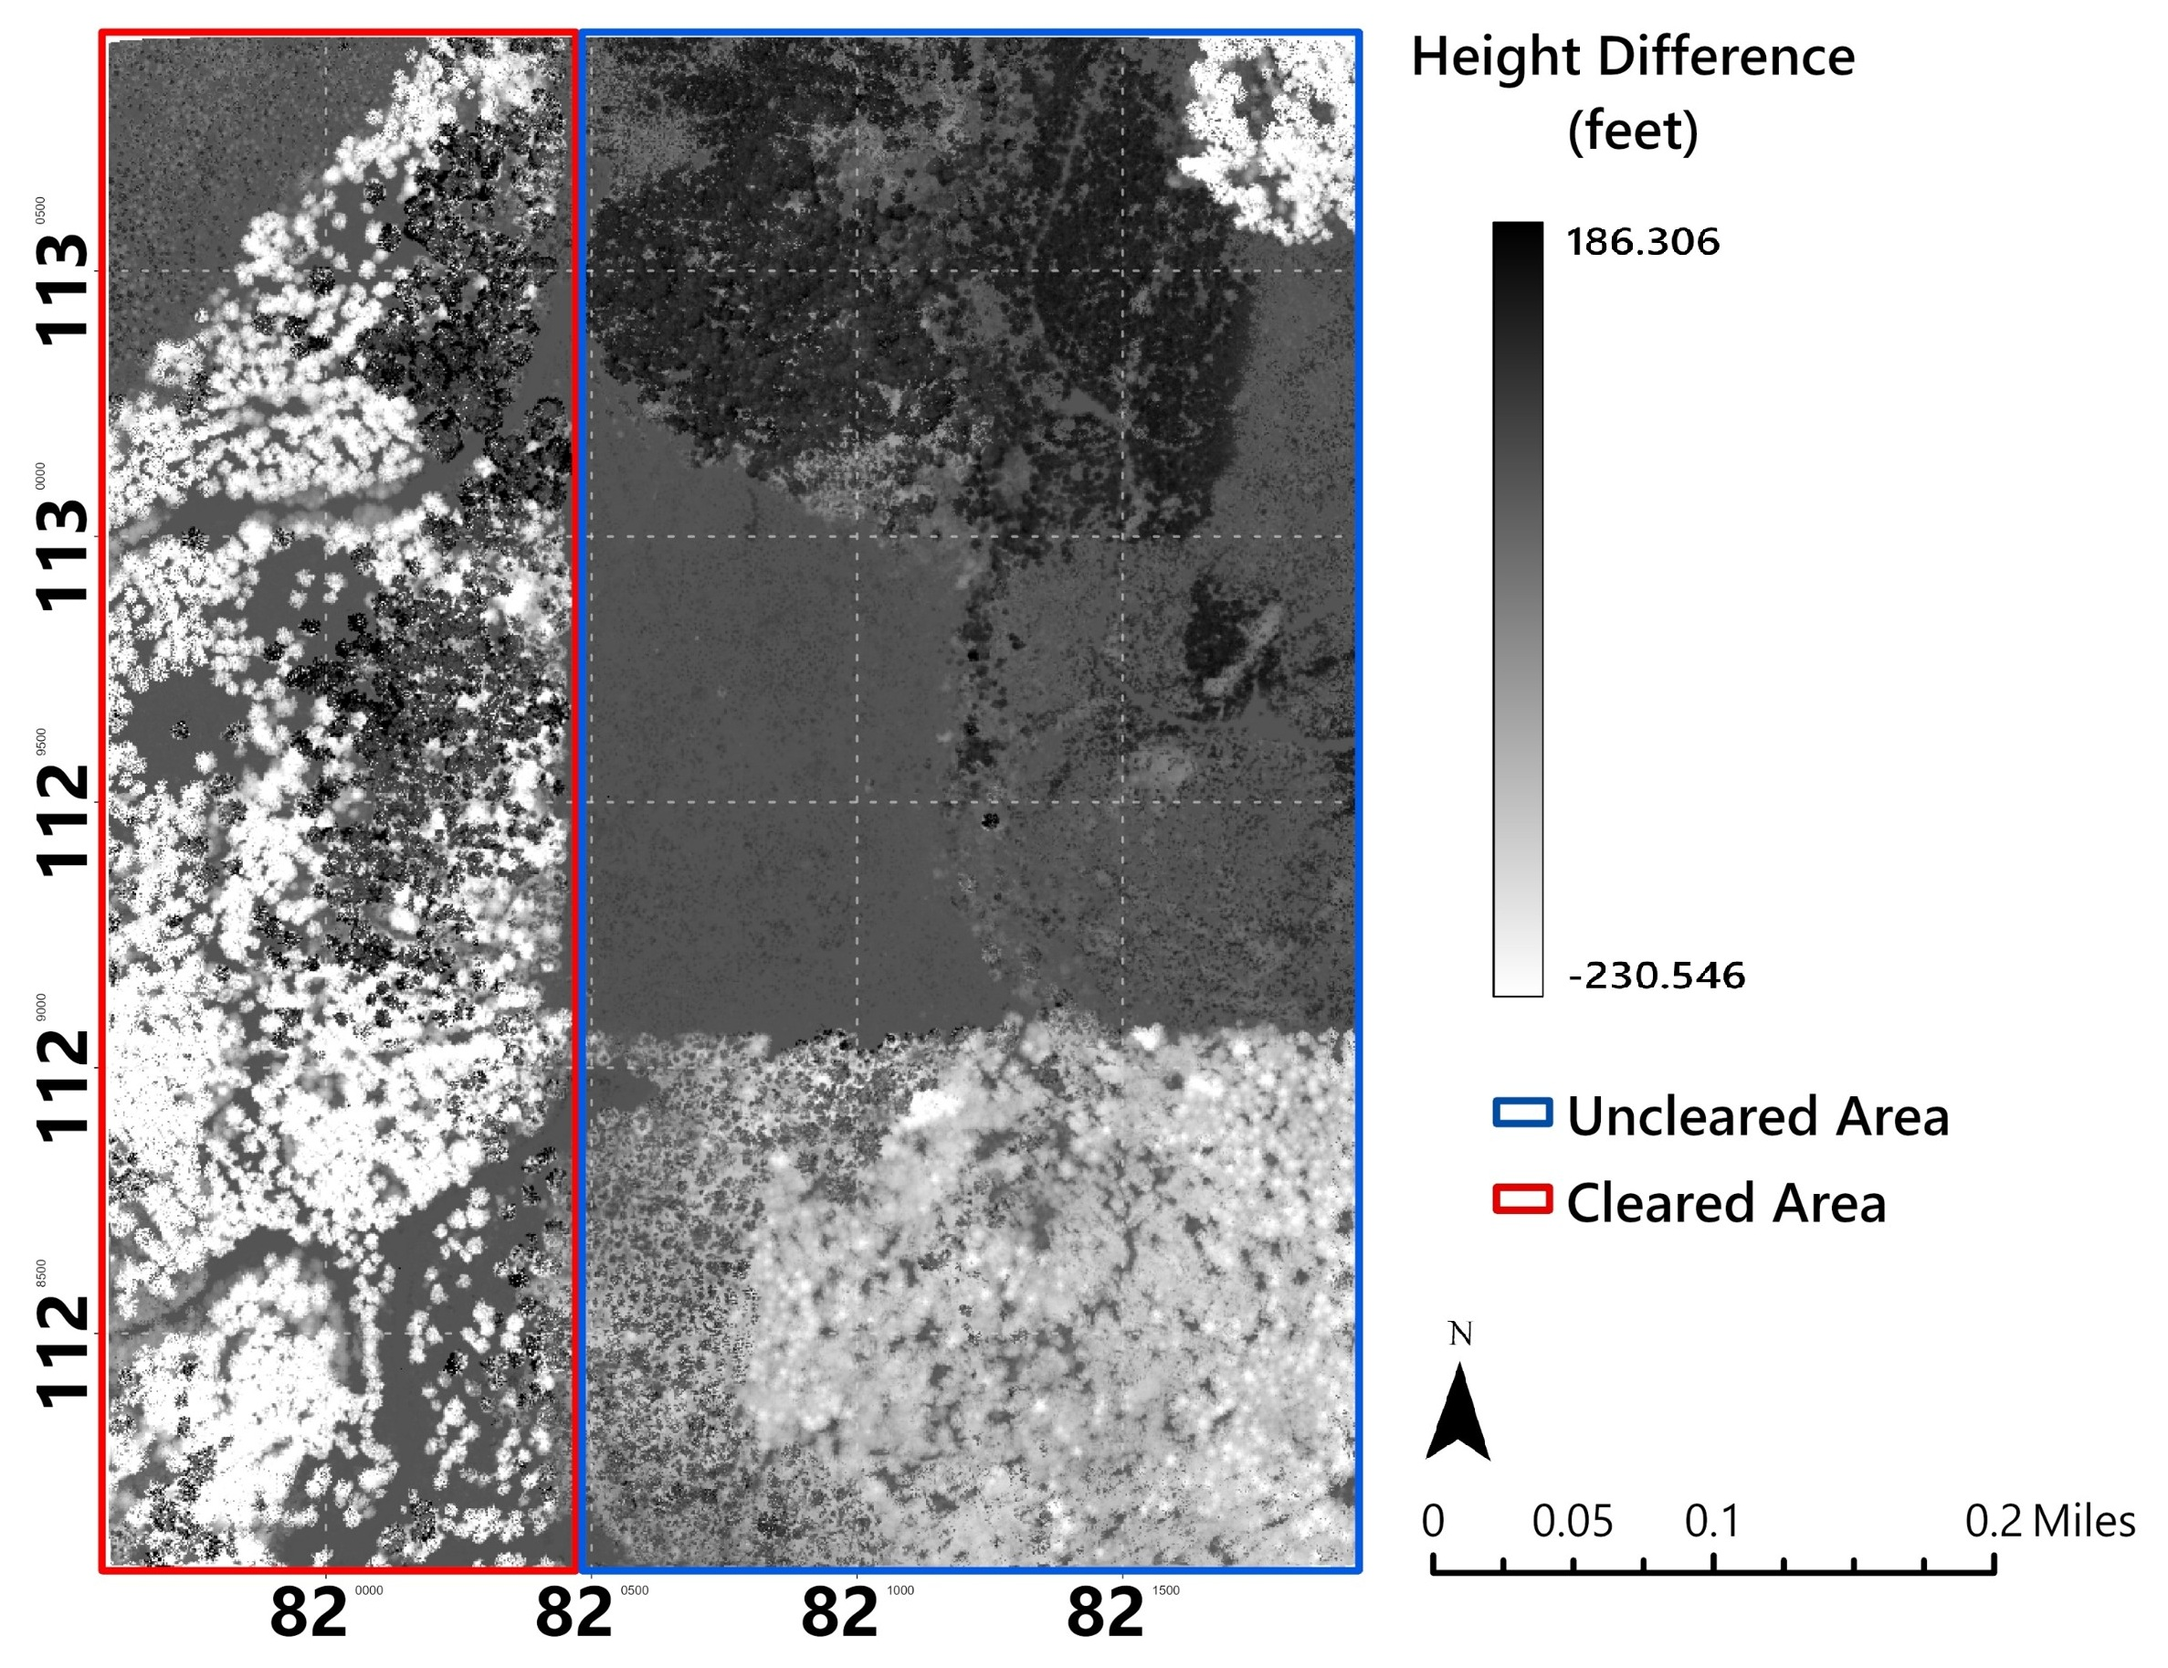
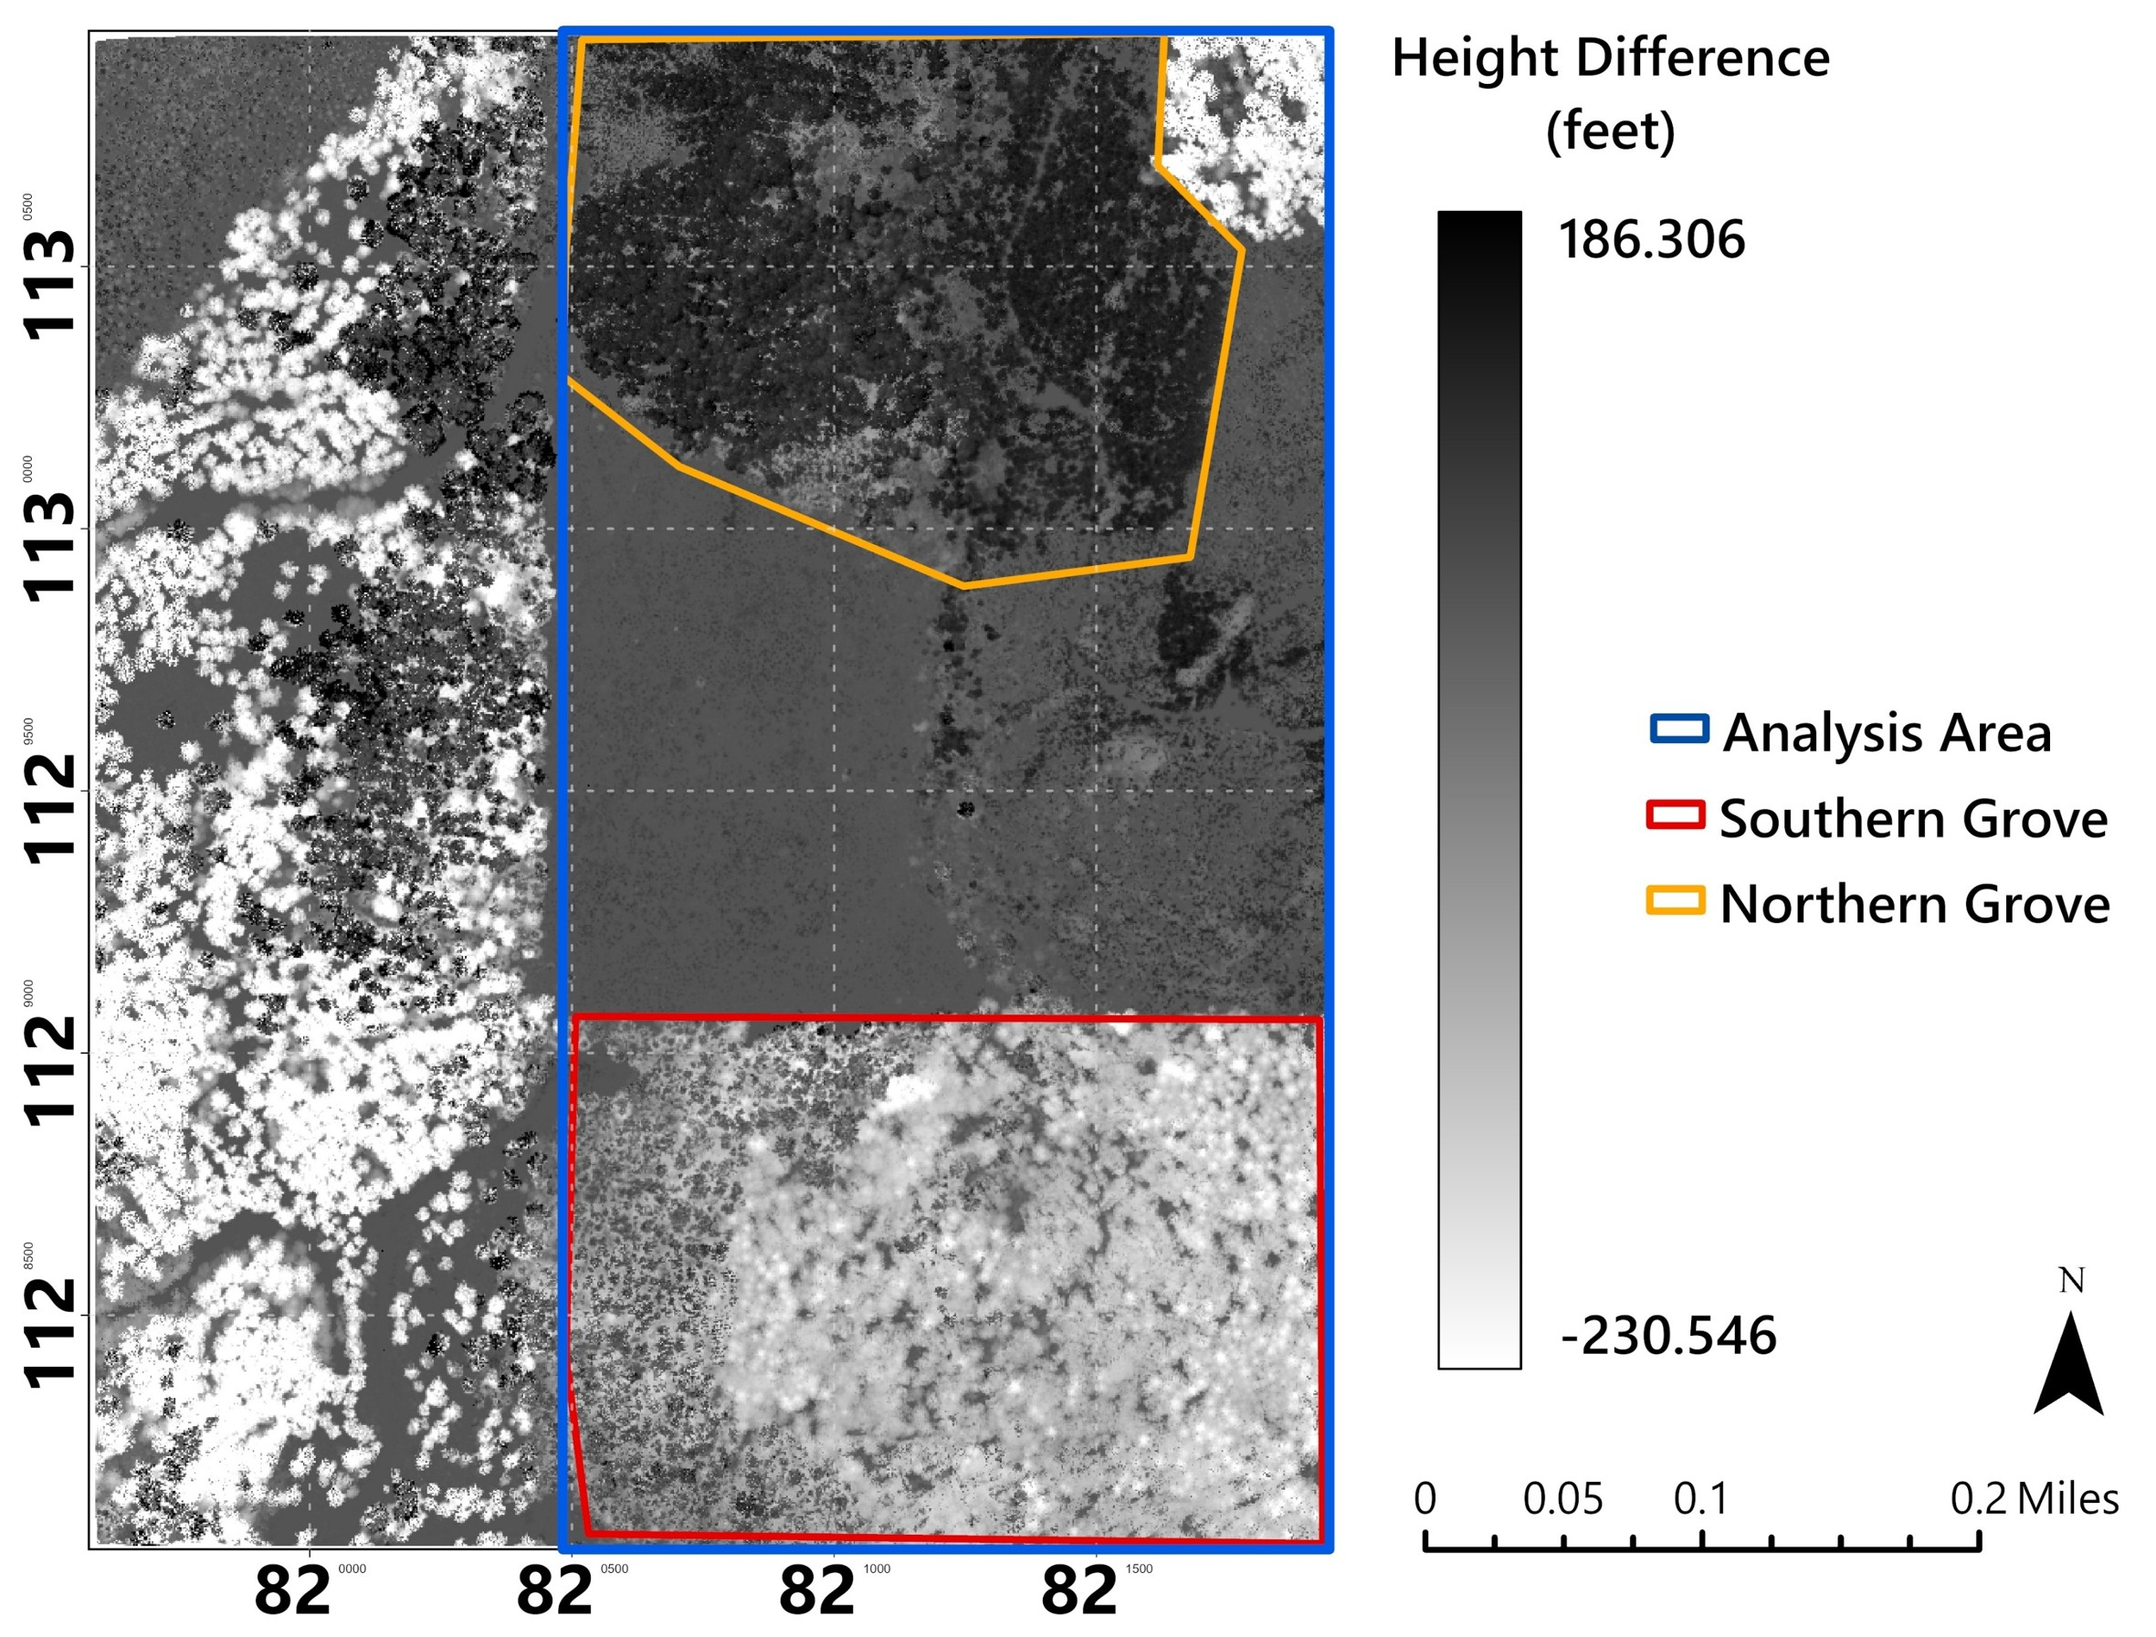
update figures

diff --git a/docs/Readme.md b/docs/Readme.md
@@ -24,17 +24,6 @@ This project utilizes multi-temporal LIDAR to quantify wildfire related impacts 
   <img src="Ravine_Before_and_After.jpg" width="600" alt="3D GIS fusion view of ravine before and after fire">
 </figure>
 
-<figure>
-  <figcaption style="font-size:0.9em; margin-bottom:8px;">
-    <strong>Figure 2.</strong> 3D GIS fusion view of stand before and after fire.<br>
-    <em>Map Author: Dustin Littlefield <br>
-    Spatial Reference: NAD 1983 (2011) Oregon Statewide Lambert (ft), NAVD88 (Geoid 18), US Survey Feet<br>
-    Sources: 2008 USGS 3DEP LiDAR (OR Willamette Valley OLC 2008, Tile 001530), 2022 USGS Western Wildfires A22 LiDAR, 2020 NAIP Orthophoto (0.60 m), 2022 NAIP Orthophoto (0.30 m)</em>
-  </figcaption>
-  <img src="Stand_before_and_after.jpg" width="600" alt="3D GIS fusion view of stand before and after fire">
-</figure>
-
-
 ## Data
 
 **2008 – OR Willamette Valley OLC 2008 (Tile: 001530)**  
@@ -65,7 +54,7 @@ Higher‑resolution four‑band CNIR imagery collected post‑fire, supporting c
 
 <figure>
   <figcaption style="font-size:0.9em; margin-bottom:8px;">
-    <strong>Figure 3.</strong> Overview of Beachie Creek fire perimeter and selected study area.<br>
+    <strong>Figure 2.</strong> Overview of Beachie Creek fire perimeter and selected study area.<br>
     <em>Map Author: Dustin Littlefield <br>
     Spatial Reference: WGS 1984 UTM 10N<br>
     Source: Copernicus Data Space Ecosystem (Sentinel‑2B MSI), European Union/ESA</em>
@@ -74,11 +63,11 @@ Higher‑resolution four‑band CNIR imagery collected post‑fire, supporting c
 </figure>
 
 ### Description:
- A 160 acre site was selected at random in the extent of the overlapping coverage zones of available LIDAR data. The chosen area contains 4 distinct regions of interest. There is a riparian corridor in a ravine carved by fish creek which is flanked to the east and west by steep rising slopes. The western slope is dominated by mature forest, while the eastern slopes, contain younger vegetation that shows evidence of post-harvest regeneration. Finally, in the center and southeast portions of the study area there are two open areas that appear to have been harvested prior to the 2008 USGS 3DEP scans. **
+ A 160 acre site was selected at random in the extent of the overlapping coverage zones of available LIDAR data. The chosen area contains 4 distinct regions of interest. There is a riparian corridor in a ravine carved by fish creek which is flanked to the east and west by steep rising slopes. The western slope is dominated by mature forest, while the eastern slopes, contain younger vegetation that shows evidence of post-harvest regeneration. Finally, in the center and southeast portions of the study area there are two open areas that appear to have been harvested prior to the 2008 USGS 3DEP scans.
 
 <figure>
   <figcaption style="font-size:0.9em; margin-bottom:8px;">
-    <strong>Figure 4.</strong> Pre- and post-fire detailed view of 160-acre study area in Beachie Creek Fire.<br>
+    <strong>Figure 3.</strong> Pre- and post-fire detailed view of 160-acre study area in Beachie Creek Fire.<br>
     <em>Map Author: Dustin Littlefield <br>
     Spatial Reference: Oregon Statewide Lambert (ft) <br>
     Source: 2020 NAIP Orthophoto (0.60 m), 2022 NAIP Orthophoto (0.30 m) 
@@ -89,7 +78,7 @@ Higher‑resolution four‑band CNIR imagery collected post‑fire, supporting c
 
 <figure>
   <figcaption style="font-size:0.9em; margin-bottom:8px;">
-    <strong>Figure 5.</strong> Pre-fire profile view of 160-acre study area in Beachie Creek Fire.<br>
+    <strong>Figure 4.</strong> Pre-fire profile view of 160-acre study area in Beachie Creek Fire.<br>
     <em>Map Author: Dustin Littlefield <br>
     Spatial Reference: NAD 1983 (2011) Oregon Statewide Lambert (ft), NAVD88 (Geoid 18), US Survey Feet <br>
     Source: 2008 USGS 3DEP LiDAR (OR Willamette Valley OLC 2008, Tile 001530) 
@@ -134,11 +123,14 @@ Higher‑resolution four‑band CNIR imagery collected post‑fire, supporting c
   - Focus on **tall vegetation** for canopy height modeling
   - Classified using current standards in Pacific Northwest.
   - Method: *Height Above Ground*
-  - *(insert chart of classfication values)*
+  - Thresholds
+    - Low Vegetation = < 6.5 ft
+    - Medium Vegetation = 6.5 - 33 ft
+    - High Vegetation = 33 - 250 ft
 
 <figure>
   <figcaption style="font-size:0.9em; margin-bottom:8px;">
-    <strong>Figure 6.</strong> Profile view of vegetation classification of 160-acre study area in Beachie Creek Fire.<br>
+    <strong>Figure 5.</strong> Profile view of vegetation classification of 160-acre study area in Beachie Creek Fire.<br>
     <em>Map Author: Dustin Littlefield <br>
     Spatial Reference: NAD 1983 (2011) Oregon Statewide Lambert (ft), NAVD88 (Geoid 18), US Survey Feet <br>
     Sources: 2008 USGS 3DEP LiDAR (OR Willamette Valley OLC 2008, Tile 001530), 2022 USGS Western Wildfires A22 LiDAR </em>
@@ -175,7 +167,7 @@ The dCHM is a raster with measurable differences in elevation where canopy is ei
 
 <figure>
   <figcaption style="font-size:0.9em; margin-bottom:8px;">
-    <strong>Figure 7.</strong> 2022 LiDAR‑derived slope map with 10‑ft contours for the 160‑acre study area within the Beachie Creek Fire perimeter. Steeper slopes are concentrated along the central ridgeline, while gentler terrain occupies the lower benches and drainage corridors.<br>
+    <strong>Figure 6.</strong> 2022 LiDAR‑derived slope map with 10‑ft contours for the 160‑acre study area within the Beachie Creek Fire perimeter. Steeper slopes are concentrated along the central ridgeline, while gentler terrain occupies the lower benches and drainage corridors.<br>
     <em>Map Author: Dustin Littlefield <br>
     Spatial Reference: NAD 1983 (2011) Oregon Statewide Lambert (ft), NAVD88 (Geoid 18), US Survey Feet <br>
     Sources: 2022 USGS Western Wildfires A22 LiDAR </em>
@@ -185,7 +177,7 @@ The dCHM is a raster with measurable differences in elevation where canopy is ei
 
 <figure>
   <figcaption style="font-size:0.9em; margin-bottom:8px;">
-    <strong>Figure 8.</strong> 2022 LiDAR‑derived aspect map showing directional slope exposure across the 160‑acre study area. South‑ and east‑facing slopes dominate the ridgeline, while cooler north‑facing aspects are rare.<br>
+    <strong>Figure 7.</strong> 2022 LiDAR‑derived aspect map showing directional slope exposure across the 160‑acre study area. South‑ and east‑facing slopes dominate the ridgeline, while cooler north‑facing aspects are rare.<br>
     <em>Map Author: Dustin Littlefield <br>
     Spatial Reference: NAD 1983 (2011) Oregon Statewide Lambert (ft), NAVD88 (Geoid 18), US Survey Feet <br>
     Sources: 2008 USGS 3DEP LiDAR (OR Willamette Valley OLC 2008, Tile 001530), 2022 USGS Western Wildfires A22 LiDAR </em>
@@ -197,7 +189,7 @@ The dCHM is a raster with measurable differences in elevation where canopy is ei
 
 <figure>
   <figcaption style="font-size:0.9em; margin-bottom:8px;">
-    <strong>Figure 9.</strong> LiDAR‑derived Canopy Height Models (CHM). LEFT: 2008 (pre‑fire) RIGHT: 2022 (post‑fire) Illustrates major changes in forest structure following the Beachie Creek Fire. The pre‑fire CHM shows mature closed‑canopy forest, while the post‑fire CHM reveals widespread canopy removal and isolated pockets of surviving vegetation.<br>
+    <strong>Figure 8.</strong> LiDAR‑derived Canopy Height Models (CHM). LEFT: 2008 (pre‑fire) RIGHT: 2022 (post‑fire) Illustrates major changes in forest structure following the Beachie Creek Fire. The pre‑fire CHM shows mature closed‑canopy forest, while the post‑fire CHM reveals widespread canopy removal and isolated pockets of surviving vegetation.<br>
     <em>Map Author: Dustin Littlefield <br>
     Spatial Reference: NAD 1983 (2011) Oregon Statewide Lambert (ft), NAVD88 (Geoid 18), US Survey Feet <br>
     Sources: 2008 USGS 3DEP LiDAR (OR Willamette Valley OLC 2008, Tile 001530), 2022 USGS Western Wildfires A22 LiDAR </em>
@@ -207,10 +199,40 @@ The dCHM is a raster with measurable differences in elevation where canopy is ei
 
 <figure>
   <figcaption style="font-size:0.9em; margin-bottom:8px;">
-    <strong>Figure 6.</strong> LiDAR‑derived difference Canopy Height Model (dCHM) showing canopy height change between 2008 and 2022. Negative values (white) indicate canopy loss from the 2020 Beachie Creek Fire, with the largest reductions occurring on exposed slopes and ridge tops. Limited positive values (black) reflect regrowth or surviving structure in protected terrain. <br>
+    <strong>Figure 9.</strong> LiDAR‑derived difference Canopy Height Model (dCHM) showing canopy height change between 2008 and 2022. Negative values (white) indicate canopy loss from the 2020 Beachie Creek Fire, with the largest reductions occurring on exposed slopes and ridge tops. Limited positive values (black) reflect regrowth or surviving structure in protected terrain. <br>
     <em>Map Author: Dustin Littlefield <br>
     Spatial Reference: NAD 1983 (2011) Oregon Statewide Lambert (ft), NAVD88 (Geoid 18), US Survey Feet <br>
     Sources: 2008 USGS 3DEP LiDAR (OR Willamette Valley OLC 2008, Tile 001530), 2022 USGS Western Wildfires A22 LiDAR </em>
   </figcaption>
   <img src="dchm.jpg" width="800" alt="">
+</figure>
+
+<figure>
+  <figcaption style="font-size:0.9em; margin-bottom:8px;">
+    <strong>Table 2.</strong> Mean Canopy Loss by Terrain Class <br>
+  </figcaption>
+  <img src="table2.jpg" width="800" alt="">
+</figure>
+
+## Areas of Interest
+
+<figure>
+  <figcaption style="font-size:0.9em; margin-bottom:8px;">
+    <strong>Figure 10.</strong>  LiDAR‑based comparison of vegetation structure in the Northern Grove (≈14 acres) using pre‑fire (2008) and post‑fire (2022) point clouds. The 3D visualizations show a transition from dense, uniform canopy to a more heterogeneous post‑fire landscape with variable regrowth. The accompanying point‑density metrics quantify changes in low, medium, and high vegetation classes, highlighting substantial reductions in mid‑story vegetation and increases in both low‑vegetation and high‑vegetation returns.<br>
+    <em>Map Author: Dustin Littlefield <br>
+    Spatial Reference: NAD 1983 (2011) Oregon Statewide Lambert (ft), NAVD88 (Geoid 18), US Survey Feet <br>
+    Sources: 2008 USGS 3DEP LiDAR (OR Willamette Valley OLC 2008, Tile 001530), 2022 USGS Western Wildfires A22 LiDAR </em>
+  </figcaption>
+  <img src="north_grove.jpg" width="1800" alt="">
+  <img src="south_grove.jpg" width="1800" alt="">
+</figure>
+
+<figure>
+  <figcaption style="font-size:0.9em; margin-bottom:8px;">
+    <strong>Figure 10.</strong> LiDAR‑derived difference Canopy Height Model (dCHM) showing canopy height change between 2008 and 2022. Negative values (white) indicate canopy loss from the 2020 Beachie Creek Fire, with the largest reductions occurring on exposed slopes and ridge tops. Limited positive values (black) reflect regrowth or surviving structure in protected terrain. <br>
+    <em>Map Author: Dustin Littlefield <br>
+    Spatial Reference: NAD 1983 (2011) Oregon Statewide Lambert (ft), NAVD88 (Geoid 18), US Survey Feet <br>
+    Sources: 2008 USGS 3DEP LiDAR (OR Willamette Valley OLC 2008, Tile 001530), 2022 USGS Western Wildfires A22 LiDAR </em>
+  </figcaption>
+  <img src="south_grove.jpg" width="1800" alt="">
 </figure>
